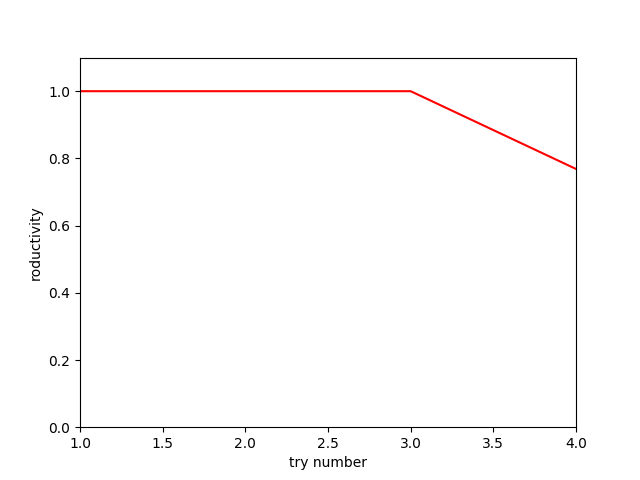
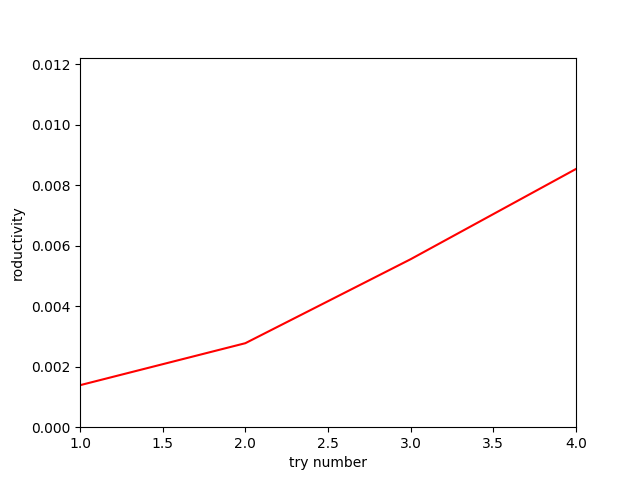
new scenario added

diff --git a/anylogic_part/create_graph.py b/anylogic_part/create_graph.py
@@ -30,8 +30,8 @@ plt.close()
 
 plt.xlabel('try number')
 plt.ylabel('roductivity')
-plt.plot([1,2,3,4], [1, 1, 1, 8325/10832],  color='red')
-plt.axis([1, 4, 0, 1.1])
+plt.plot([1,2,3,4], [1/720, 1/360, 1/180, 8325/(10832*90)],  color='red')
+plt.axis([1, 4, 0, 1.1/90])
 
 plt.legend()
 path = "./screens/"
@@ -69,9 +69,9 @@ plt.close()
 
 
 plt.xlabel('try number')
-plt.ylabel('roductivity')
-plt.plot([1,2,3,4], [1, 29995/48300, 15367/48300, 8324/48300],  color='red')
-plt.axis([1, 4, 0, 1.1])
+plt.ylabel('productivity')
+plt.plot([1,2,3,4], [1/720, 29995/(48300*360), 15367/(48300*180), 8324/(48300*90)],  color='red')
+plt.axis([1, 4, 0, 1.1/90])
 
 plt.legend()
 path = "./screens/"
@@ -109,9 +109,9 @@ plt.close()
 
 
 plt.xlabel('try number')
-plt.ylabel('roductivity')
-plt.plot([1,2,3,4], [1, 1, 6134/10630, 3042/48300],  color='red')
-plt.axis([1, 4, 0, 1.1])
+plt.ylabel('productivity')
+plt.plot([1,2,3,4], [1/720, 1/360, 6134/(10630*180), 3042/(48300*90)],  color='red')
+plt.axis([1, 4, 0, 1.1/90])
 
 plt.legend()
 path = "./screens/"
@@ -120,3 +120,29 @@ if not os.path.exists(path):
 plt.savefig('{}{}.png'.format(path, "productivity_3"))
 plt.close()
 
+##
+
+plt.xlabel('try number')
+plt.ylabel('queue size')
+plt.plot([1,2,3,4], [20164, 32562, 38979, 42191],  color='green')
+plt.axis([1, 4, 0, 45000])
+
+plt.legend()
+path = "./screens/"
+if not os.path.exists(path):
+    os.mkdir(path)
+plt.savefig('{}{}.png'.format(path, "queue_size_4"))
+plt.close()
+
+
+plt.xlabel('try number')
+plt.ylabel('productivity')
+plt.plot([1,2,3,4], [1/720, 24426/(48781*360), 12213/(48781*180), 6104/(48781*90)],  color='red')
+plt.axis([1, 4, 0, 1.1/90])
+
+plt.legend()
+path = "./screens/"
+if not os.path.exists(path):
+        os.mkdir(path)
+plt.savefig('{}{}.png'.format(path, "productivity_4"))
+plt.close()

diff --git a/anylogic_part/calculations2.py b/anylogic_part/calculations2.py
@@ -1,0 +1,13 @@
+anylogic_buffer = 49500
+
+timezones = {'China8' : 40152,
+'Bangladesh7': 5297,
+'India' : 3000
+#33411
+}
+updated_timezones = {}
+
+for key in timezones.keys():
+    element = timezones.get(key)
+    print(key, '=', element)
+

diff --git a/anylogic_part/Report.md b/anylogic_part/Report.md
@@ -65,3 +65,30 @@
 ![alt tag](https://github.com/yashin-alexander/Monsters-Inc-modeling/blob/master/anylogic_part/screens/queue_size_3.png?raw=true)
 ![alt tag](https://github.com/yashin-alexander/Monsters-Inc-modeling/blob/master/anylogic_part/screens/broken_monsters_3.png?raw=true)
 ![alt tag](https://github.com/yashin-alexander/Monsters-Inc-modeling/blob/master/anylogic_part/screens/productivity_3.png?raw=true)
+
+
+
+# Сценарий №4
+
+#### 13 опыт
+720 монстров, 8 часовых поясов(забитие очереди происходит в первых трех), 3 часа работы, 98.92% очень смелых детей. Монстры не пугаются.
+![alt tag](https://github.com/yashin-alexander/Monsters-Inc-modeling/blob/master/anylogic_part/screens/13.PNG?raw=true)
+
+#### 14 опыт
+360 монстров, 8 часовых поясов(забитие очереди происходит в первых трех), 8 часов работы, 98.92% очень смелых детей.
+![alt tag](https://github.com/yashin-alexander/Monsters-Inc-modeling/blob/master/anylogic_part/screens/14.PNG?raw=true)
+
+#### 15 опыт
+180 монстров, 8 часовых поясов(забитие очереди происходит в первых трех), 8 часов работы, 98.92% очень смелых детей.
+![alt tag](https://github.com/yashin-alexander/Monsters-Inc-modeling/blob/master/anylogic_part/screens/15.PNG?raw=true)
+
+#### 16 опыт
+90 монстров, 8 часовых поясов(забитие очереди происходит в первых трех), 8 часов работы, 98.92% очень смелых детей.
+![alt tag](https://github.com/yashin-alexander/Monsters-Inc-modeling/blob/master/anylogic_part/screens/16.PNG?raw=true)
+ 
+для сценария 4 характерны следующие особенности:
+![alt tag](https://github.com/yashin-alexander/Monsters-Inc-modeling/blob/master/anylogic_part/screens/queue_size_4.png?raw=true)
+![alt tag](https://github.com/yashin-alexander/Monsters-Inc-modeling/blob/master/anylogic_part/screens/productivity_4.png?raw=true)
+
+
+В связи с тем, что свободно распространяемая версия anylogic позволяет генерировать только 50000 заявок, реальное количество детей было уменьшено ~ в 1000 раз. 
